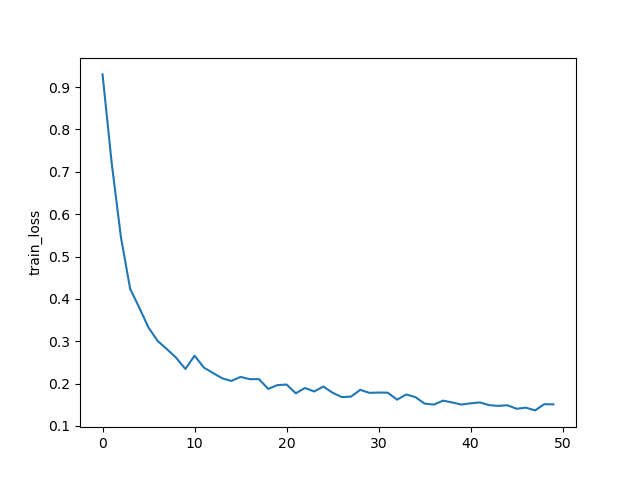
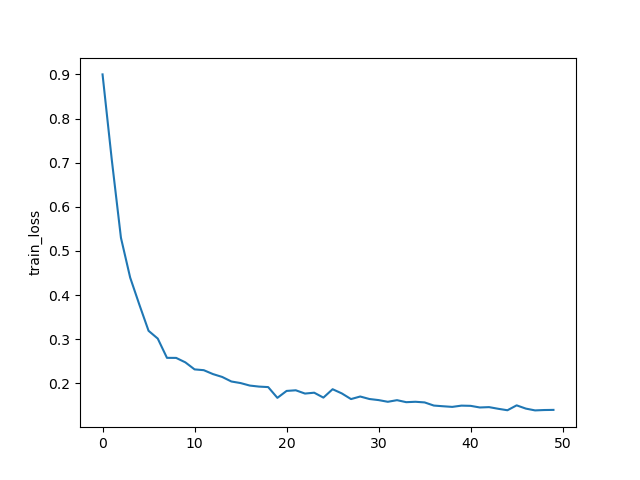
GA

diff --git a/FedGA.py b/FedGA.py
@@ -2,16 +2,101 @@
 import copy
 import torch
 from torch import nn
+import numpy
+from torch.utils.data import DataLoader, Dataset
+import torch.nn.functional as F
+def cal_pop_fitness(pop, w_size, net_glob, dataset):
+    fitness=[]
+    Global=net_glob
+    print(w_size)
+    for i in range(w_size)  :
+        Global.load_state_dict(pop[i])
+        loss = 0
+        #data_loader = DataLoader(dataset)
+        l = len(dataset)
+        #print(enumerate(data_loader))
+        #print(DataLoader)
+        for idx, (data, target) in enumerate(dataset):
+           #if args.gpu != -1:
+           #   data, target = data.cuda(), target.cuda()
+           log_probs = Global(data)
+           # sum up batch loss
+           loss += F.cross_entropy(log_probs, target, reduction='sum').item()
+           # get the index of the max log-probability
+           y_pred = log_probs.data.max(1, keepdim=True)[1]
+         
 
-
-def FedGA(w,global_M):
-    initial_popluation= copy.deepcopy(w)
-    previous_M=global_M
-
+        loss /= len(dataset.dataset)
+        fitness.append(loss)
+    print('end fitness',fitness)     
     
-    w_avg = copy.deepcopy(w[0])  #Renvoie une copie récursive de x.
-    for k in w_avg.keys():
-        for i in range(1, len(w)):
-            w_avg[k] += w[i][k]
-        w_avg[k] = torch.div(w_avg[k], len(w))
-    return w_avg
+    return fitness
+     
+
+
+def select_mating_pool(pop, fitness, num_parents,sub_weights_size):
+       # Selecting the best individuals in the current generation as parents for producing the offspring of the next generation.
+       #print(num_parents, pop.shape[1]) 
+       parents =[] #numpy.empty((num_parents, sub_weights_size))#10 8
+
+       for parent_num in range(num_parents):
+          print(len(parents))
+          min_fitness_idx = numpy.where(fitness == numpy.min(fitness)) 
+          print(min_fitness_idx) #tableau des index
+          min_fitness_idx = min_fitness_idx[0][0] #le plus petit index
+          parents[parent_num, : ] = pop[min_fitness_idx, : ]
+          fitness[min_fitness_idx] = 99999999999
+          
+       print('end select parents')  
+       parents = numpy.array(parents)
+    
+       return parents
+
+
+def crossover(parents, offspring_size):
+    offspring = numpy.empty(offspring_size)
+    # The point at which crossover takes place between two parents. Usually, it is at the center.
+    crossover_point = numpy.uint8(offspring_size[1]/2)
+
+    for k in range(offspring_size[0]):
+        # Index of the first parent to mate.
+        parent1_idx = k%parents.shape[0]
+        # Index of the second parent to mate.
+        parent2_idx = (k+1)%parents.shape[0]
+        # The new offspring will have its first half of its genes taken from the first parent.
+        offspring[k, 0:crossover_point] = parents[parent1_idx, 0:crossover_point]
+        # The new offspring will have its second half of its genes taken from the second parent.
+        offspring[k, crossover_point:] = parents[parent2_idx, crossover_point:]
+    print('end cross over')  
+    return offspring
+
+
+def mutation(offspring_crossover):
+    # Mutation changes a single gene in each offspring randomly.
+    for idx in range(offspring_crossover.shape[0]):
+        # The random value to be added to the gene.
+        random_value = numpy.random.uniform(-1.0, 1.0, 1)
+        offspring_crossover[idx, 4] = offspring_crossover[idx, 4] + random_value
+    print('end mutation')  
+    return offspring_crossover
+
+
+
+def FedGA(w,global_M,dataset):
+    w_size= len(w)
+    sub_weight_size=len(w[0])
+   
+    initial_popluation= w
+    previous_M=global_M
+    num_iteration= 10
+    new_population=initial_popluation
+    for i in range(num_iteration):
+        print('Begin',i,'GA iteration')  
+        fitness=cal_pop_fitness(initial_popluation,w_size,previous_M,dataset)
+        parents=select_mating_pool(initial_popluation, fitness, len(w), sub_weight_size)
+        print(parents.shape)
+        offspring_crossover = crossover(parents, offspring_size=(len(w[0])-parents.shape[0],len(w)))
+        offspring_mutation = mutation(offspring_crossover)
+        new_population[0:parents.shape[0], :] = parents
+        new_population[parents.shape[0]:, :] = offspring_mutation
+

diff --git a/Server.py b/Server.py
@@ -9,10 +9,12 @@ import copy
 import numpy as np
 from torchvision import datasets, transforms
 import torch
+from torch.utils.data import DataLoader, Dataset
 from Options import args_parser
 from Model import CNNMnist 
 from Client import Client , LocalUpdate 
 from FedAVG import FedAvg
+from FedGA import FedGA
 
 if __name__ == '__main__':
     # parse args
@@ -24,6 +26,13 @@ if __name__ == '__main__':
     trans_mnist = transforms.Compose([transforms.ToTensor(), transforms.Normalize((0.1307,), (0.3081,))])
     dataset_train = datasets.MNIST('../data/mnist/', train=True, download=True, transform=trans_mnist)
     dataset_test = datasets.MNIST('../data/mnist/', train=False, download=True, transform=trans_mnist)
+    print(dataset_test)
+    test_subset, val_subset = torch.utils.data.random_split(dataset_test, [8000, 2000], generator=torch.Generator().manual_seed(1))
+    dataset_test = DataLoader(dataset=test_subset, shuffle=True)
+    dataset_validate = DataLoader(dataset=val_subset, shuffle=False)
+
+
+
     num_items = int(len(dataset_train)/args.num_users)  # dataset size is equal  for all users 
     net_glob = CNNMnist(args=args).to(args.device)
     net_glob.train() # au debut tous les clients ont le meme model
@@ -69,8 +78,10 @@ if __name__ == '__main__':
                 w_locals.append(copy.deepcopy(w))
             loss_locals.append(copy.deepcopy(loss))
         # update global weights
-        w_glob = FedAvg(w_locals)
-
+       # w_glob = FedAvg(w_locals)
+        w_locals= np.array(w_locals)
+        print(w_locals.dtype)
+        w_glob = FedGA(w_locals,net_glob,dataset_validate)
         # copy weight to net_glob
         net_glob.load_state_dict(w_glob)
 

diff --git a/Options.py b/Options.py
@@ -8,9 +8,9 @@ def args_parser():
     parser = argparse.ArgumentParser()
     # federated arguments
     parser.add_argument('--epochs', type=int, default=10, help="rounds of training")
-    parser.add_argument('--num_users', type=int, default=100, help="number of users: K")
+    parser.add_argument('--num_users', type=int, default=10, help="number of users: K")
     parser.add_argument('--frac', type=float, default=0.1, help="the fraction of clients: C")
-    parser.add_argument('--local_ep', type=int, default=20, help="the number of local epochs: E")
+    parser.add_argument('--local_ep', type=int, default=5, help="the number of local epochs: E")
     
     parser.add_argument('--local_bs', type=int, default=10, help="local batch size: B")
     parser.add_argument('--bs', type=int, default=128, help="test batch size")
